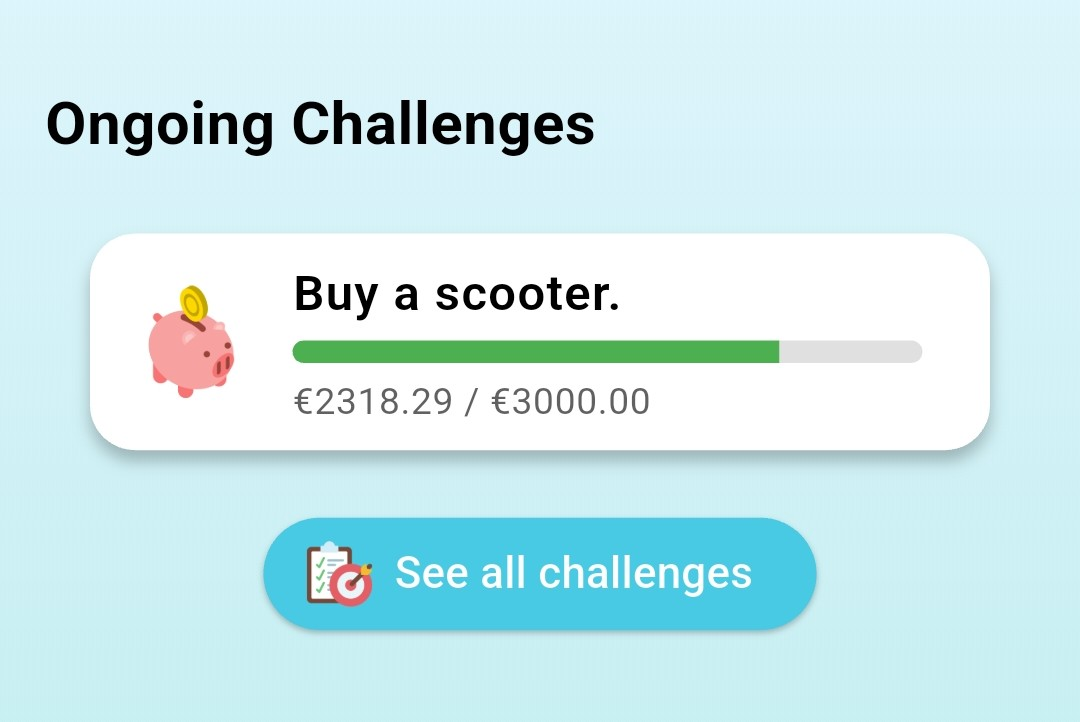
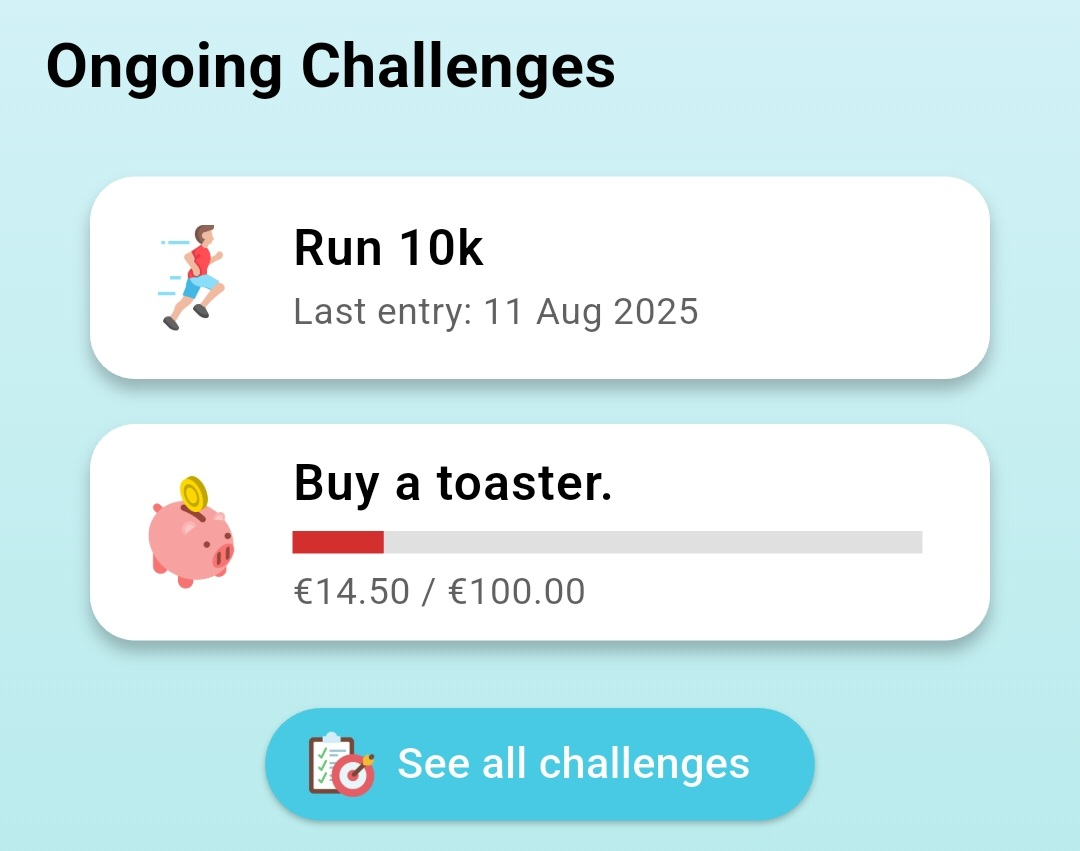
Expand X-hale gallery with challenges and coping screens

diff --git a/docs/images/README.md b/docs/images/README.md
@@ -1,30 +1,51 @@
 # Application screenshots
 
-The root README uses the updated application captures supplied in the project's local `Pics/` folder. They replace the earlier `assets/icons/` screenshots. The documentation images were prepared on 26 October 2026.
+The README gallery uses eight owner-supplied application captures from the local
+`Pics/` folder. The expanded gallery was updated on 27 October 2026 with the full
+health-benefits page, Explore, a stretching routine and both ongoing challenges.
 
 | Documentation image | Original local source | Final dimensions |
 | --- | --- | --- |
-| `progress-dashboard.webp` | `Pics/dashboard.jpg` | 1080 × 2104 |
-| `hailey-conversation.webp` | `Pics/chatbot_interaction.jpg` | 1080 × 2104 |
-| `guided-breathing.webp` | `Pics/breathing_technique.jpg` | 1080 × 2104 |
-| `milestones.webp` | `Pics/milestones.jpg` | 1080 × 2104 |
-| `challenges.webp` | `Pics/challenge_crop_1.jpg` | 1080 × 722 |
-| `health-benefit.webp` | `Pics/health_benefits_cropped_2.jpg` | 1080 × 727 |
+| [progress-dashboard.webp](progress-dashboard.webp) | `Pics/dashboard.jpg` | 1080 × 2104 |
+| [hailey-conversation.webp](hailey-conversation.webp) | `Pics/chatbot_interaction.jpg` | 1080 × 2104 |
+| [guided-breathing.webp](guided-breathing.webp) | `Pics/breathing_technique.jpg` | 1080 × 2104 |
+| [milestones.webp](milestones.webp) | `Pics/milestones.jpg` | 1080 × 2104 |
+| [challenges.webp](challenges.webp) | `Pics/ongoing challenges.jpg` | 1080 × 851 |
+| [health-benefits.webp](health-benefits.webp) | `Pics/health_benefits.jpg` | 1080 × 2104 |
+| [explore.webp](explore.webp) | `Pics/explore.jpg` | 1080 × 2104 |
+| [stretching-routine.webp](stretching-routine.webp) | `Pics/stretching_routine.jpg` | 1080 × 2104 |
 
 ## Cropping and image fidelity
 
-For the four full-device captures, the source dimensions are 1080 × 2340. The retained rectangle is `(left=0, top=96, right=1080, bottom=2200)`, using an exclusive right/bottom boundary. This removes the clock/battery/notification bar and Android's three-button system navigation bar. App headers, app navigation, chat actions, input controls and breathing controls remain intact.
+The seven full-device sources are 1080 × 2340 pixels. Their retained rectangle
+is `(left=0, top=96, right=1080, bottom=2200)`, with exclusive right/bottom bounds.
+The 1080 × 2104 exports omit the phone's clock/battery/notifications and Android
+three-button navigation bar. Application headers, controls and app navigation
+remain intact.
 
-The challenge and health-benefit sources were already tightly framed by the owner and contain neither system bar; their full supplied image areas are retained. No composite or simulated interface was used.
+`ongoing challenges.jpg` was supplied as an already cropped 1080 × 851 panel
+with no device bars. Its full area is retained, showing both a running goal and
+a savings goal. It replaces the former single financial-challenge card.
 
-All six images use **lossless WebP** at their retained native resolution, without rescaling, text replacement, retouching or generated content. The decoded output pixels were checked against the corresponding decoded source crop and match exactly. The gallery totals approximately 1.4 MB. The three lead images have matching dimensions and display at 240 pixels wide; the two detail cards display at 360 pixels wide. Clicking an image opens its full-resolution file.
+All eight exports use lossless WebP at their retained native resolution.
+Decoded export pixels match the decoded source crop exactly. No UI text,
+illustrations or values have been replaced, retouched or generated. The complete
+gallery totals 2,200,130 bytes. Lead screens display at 240 pixels wide;
+expanded full screens at 300 pixels and the challenge panel at 480 pixels.
+Every image links to its full-resolution file. Original source files are unchanged.
 
 ## Provenance and interpretation
 
-The source files have no recorded EXIF capture date or exact code revision. The dashboard and conversation show September 2026 dates, but those visible application timestamps do not establish the precise capture date or deployed model/corpus revision. The preparation date above is not a claim that the app was recaptured on that day.
+Exact capture dates and application/deployment revisions were not supplied.
+Visible application dates do not establish a precise capture time or backend
+revision; the preparation date above records the gallery update only.
 
-The Hailey capture shows a supplied interaction about cravings and app-action links. Displayed progress, savings and health-benefit information illustrate the interface; screenshots are not benchmark results or evidence of clinical effectiveness. The health-benefit timeline is informational, not an individual physiological measurement. Other asset-rights work remains in [third-party notices](../../THIRD_PARTY_NOTICES.md).
+The captures illustrate the application interface, not benchmark results or
+clinical effectiveness. Health-benefit timelines and progress are informational,
+not measurements of individual physiological recovery. The stretching capture
+shows the existing routine interface and instructions. Asset permissions remain
+separate work in [third-party notices](../../THIRD_PARTY_NOTICES.md).
 
-The local source folder is kept out of routine commits; only these curated, cropped documentation images are published. Source files remain unchanged.
-
-For future captures, exclude personal information, real messages/diary entries, credentials and notification contents; record capture date and code revision. Any biometrics image must label its readings as demonstration data.
+Raw `Pics/` captures remain excluded from routine commits. Future captures should
+exclude personal information, credentials and phone notifications, and record
+the application revision. Biometrics captures must identify demonstration data.

diff --git a/README.md b/README.md
@@ -11,24 +11,27 @@ X-hale is a Flutter mobile application combining cessation-progress tracking, re
 | <a href="docs/images/progress-dashboard.webp"><img src="docs/images/progress-dashboard.webp" alt="X-hale dashboard showing quit duration, milestone progress and estimated savings" width="240"></a> | <a href="docs/images/hailey-conversation.webp"><img src="docs/images/hailey-conversation.webp" alt="Hailey answering a question about cravings with links to the distraction wheel and diary" width="240"></a> | <a href="docs/images/guided-breathing.webp"><img src="docs/images/guided-breathing.webp" alt="Box-breathing screen with technique, duration, instructions and breathing timer" width="240"></a> |
 
 <details>
-<summary>More application screens: milestones, challenges and health information</summary>
+<summary>More application screens: Explore, stretching, milestones, health benefits and challenges</summary>
 
 <table>
-  <tr><th>Milestones</th><th>Challenges and health information</th></tr>
+  <tr><th align="center">Explore</th><th align="center">Stretching routine</th></tr>
   <tr>
-    <td align="center" valign="top">
-      <a href="docs/images/milestones.webp"><img src="docs/images/milestones.webp" alt="Smoke-free milestone grid showing completed and upcoming achievements" width="240"></a>
-    </td>
-    <td align="center" valign="top">
-      <p><strong>User-defined financial challenge</strong></p>
-      <a href="docs/images/challenges.webp"><img src="docs/images/challenges.webp" alt="Savings challenge for a scooter with a progress bar and link to all challenges" width="360"></a>
-      <p><strong>Informational health-benefit card</strong></p>
-      <a href="docs/images/health-benefit.webp"><img src="docs/images/health-benefit.webp" alt="Health-benefit timeline card with progress and a Learn More link" width="360"></a>
-    </td>
+    <td align="center" valign="top"><a href="docs/images/explore.webp"><img src="docs/images/explore.webp" alt="Explore screen with preparation tips, wellness support, breathing techniques and mini-games" width="300"></a></td>
+    <td align="center" valign="top"><a href="docs/images/stretching-routine.webp"><img src="docs/images/stretching-routine.webp" alt="Neck-stretch routine with stretch selection, repetitions, instructions and illustration" width="300"></a></td>
+  </tr>
+  <tr><th align="center">Milestones</th><th align="center">Health benefits</th></tr>
+  <tr>
+    <td align="center" valign="top"><a href="docs/images/milestones.webp"><img src="docs/images/milestones.webp" alt="Smoke-free milestone grid showing completed and upcoming achievements" width="300"></a></td>
+    <td align="center" valign="top"><a href="docs/images/health-benefits.webp"><img src="docs/images/health-benefits.webp" alt="Health Benefits page with informational recovery timelines and benefit cards" width="300"></a></td>
   </tr>
 </table>
 
-*The health-benefit card is informational; its timeline and progress display do not measure an individual's physiological recovery.*
+<p align="center">
+  <strong>Ongoing challenges</strong><br>
+  <a href="docs/images/challenges.webp"><img src="docs/images/challenges.webp" alt="Ongoing challenges showing a running goal and a savings goal, with progress and a link to all challenges" width="480"></a>
+</p>
+
+*Health-benefit timelines and progress displays are informational; they do not measure an individual's physiological recovery.*
 
 </details>
 
